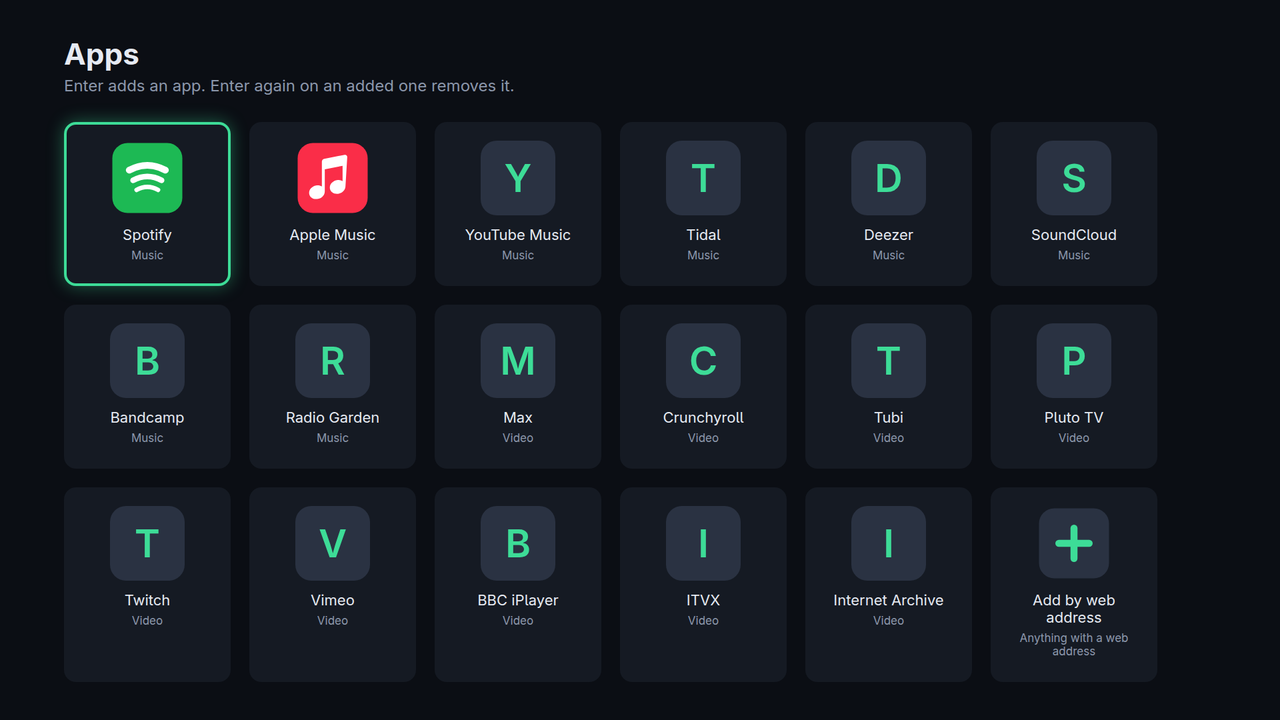
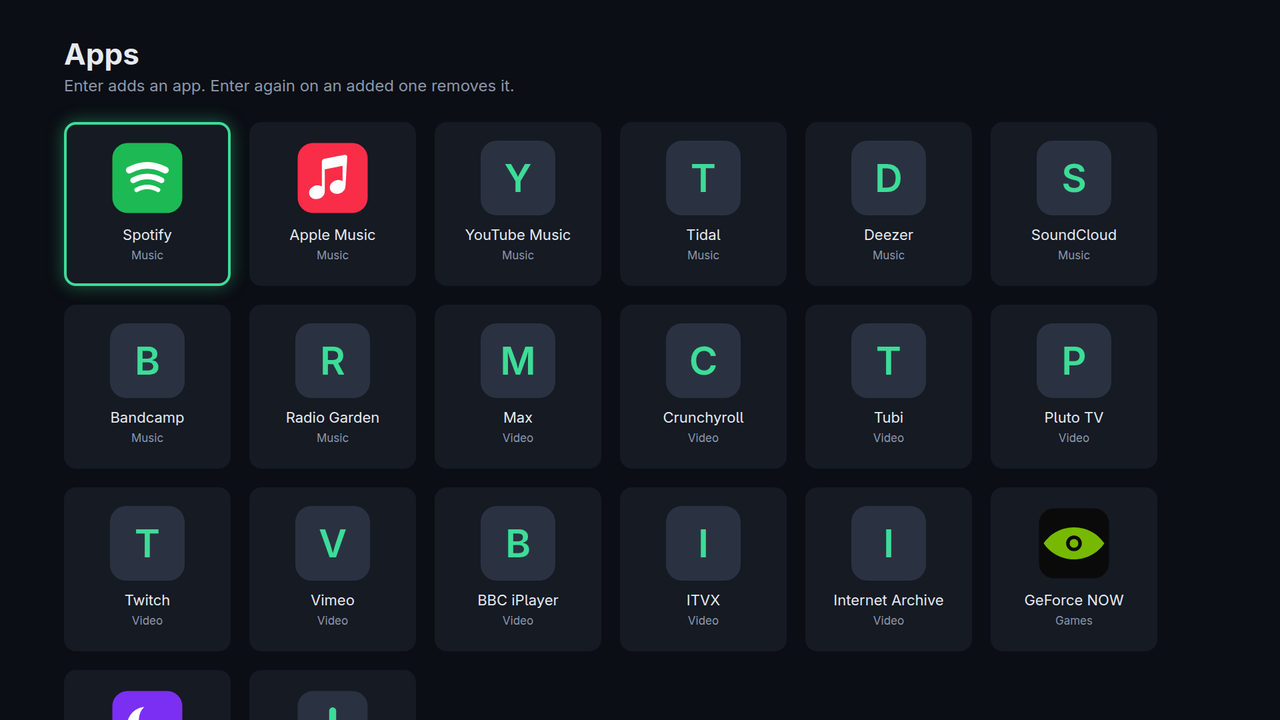
Offer game streaming in the setup wizard
The Apps step now ends with a Games row: GeForce NOW, Amazon Luna and
Moonlight, so somebody setting up a television decides how they play at
the same time as what they watch.

GeForce NOW and Luna are catalogue services, with tiles drawn for them
and the Game category, so they land in the home screen's games row
beside Moonlight rather than among the films. Neither uses Widevine, but
both refuse a browser they do not recognise, so a catalogue entry can
now carry agent "chrome", which claims Chrome on ChromeOS: a browser
both support. Until now the only way to get an agent was to be marked as
needing Widevine, which would have made the launcher refuse to open them
without a CDM they do not use.

Moonlight is not a web app and so not in the catalogue. It gets its own
item, with "about 2 GB" on the tile, and choosing it starts the Flatpak
download in the background and says so: the wizard does not hold itself
open for two gigabytes. Sunshine, the half that runs on the PC, is
explained in the step's hint and in docs/EXTRAS.md; nothing is installed
here for it.

Checked on the television: the three appear in the step, and choosing
Moonlight really did start flatpak fetching it, which was then stopped.
docs/images/apps.png is retaken, and the counts in the README, SETUP and
SERVICES now say nineteen.

Changed region(s): [[0.7812, 0.7028, 0.875, 0.9167], [0.2188, 0.9472, 0.3125, 1.0], [0.0625, 0.9472, 0.1562, 1.0]]

diff --git a/image/overlay/usr/share/freetvos/setupui.py b/image/overlay/usr/share/freetvos/setupui.py
@@ -115,7 +115,9 @@ APPS_BODY = """
 <div class="msg" id="msg"></div>
 <p class="hint">Netflix, Prime Video, Disney+, Hulu, Apple TV+,
 Paramount+, Peacock, ESPN+, YouTube, YouTube TV, Plex and Jellyfin are already
-here. Back goes to the previous step.</p>
+here. GeForce NOW and Luna play games in the browser; Moonlight plays what is
+running on a PC in the house, which needs Sunshine installed on that PC. Back
+goes to the previous step.</p>
 <script>
 __NAV__
 const ITEMS = __ITEMS__;
@@ -186,7 +188,7 @@ function choose(i) {
       busy = false;
       if (r.error) { msg.className = 'msg bad'; msg.textContent = r.error; return; }
       it.on = adding;
-      msg.textContent = it.name + (adding ? ' added' : ' removed');
+      msg.textContent = r.note || (it.name + (adding ? ' added' : ' removed'));
       paint();
     });
 }
@@ -260,6 +262,12 @@ def run(setup) -> int:
         items = [{"id": entry["id"], "name": entry["name"],
                   "group": entry["group"], "on": entry["id"] in have}
                  for entry in service.catalog()]
+        # Moonlight is not a web app, so it is not in the catalogue, but this
+        # is where somebody deciding how they play games is looking. Its size
+        # is on the tile: two gigabytes is not a surprise to spring on someone.
+        items.append({"id": "moonlight", "name": "Moonlight",
+                      "group": "Games \u00b7 about 2 GB",
+                      "on": setup.moonlight_installed()})
         # First, not last. Twenty tiles between here and the end of the step
         # is a long way to travel to say you are finished, and the highlight
         # starts on the first app so the page still opens on something to pick.
@@ -300,6 +308,14 @@ def run(setup) -> int:
         return {"items": network_items()}
 
     def do_app(payload):
+        if payload.get("id") == "moonlight":
+            if payload.get("on"):
+                setup.moonlight_install()
+                return {"ok": True,
+                        "note": "Moonlight is downloading. It will be on the "
+                                "home screen when it finishes."}
+            setup.moonlight_remove()
+            return {"ok": True}
         service = setup.services()
         entry = next((c for c in service.catalog()
                       if c["id"] == payload.get("id")), None)
@@ -307,7 +323,8 @@ def run(setup) -> int:
             return {"error": "That app is no longer in the catalogue."}
         if payload.get("on"):
             service.add(entry["id"], entry["name"], entry["url"],
-                        entry.get("drm", "no"), entry["category"])
+                        entry.get("drm", "no"), entry["category"],
+                        agent=entry.get("agent", ""))
         else:
             service.remove(entry["id"])
         return {"ok": True}

diff --git a/tools/test-setup.py b/tools/test-setup.py
@@ -13,6 +13,7 @@ import importlib.util
 import os
 import sys
 import tempfile
+import time
 import types
 from pathlib import Path
 
@@ -173,6 +174,42 @@ def main() -> int:
         check("and it can be asked to run again", setup.done(), False)
         setup.reset()
         check("resetting twice is fine", setup.done(), False)
+
+        print("game streaming")
+        log = Path(tmp) / "moonlight.log"
+        missing = Path(tmp) / "moonlight-missing"
+        here = Path(tmp) / "moonlight-here"
+        missing.write_text(f'#!/bin/sh\necho "$1" >> {log}\n'
+                           '[ "$1" = status ] && echo "not installed"\nexit 0\n')
+        here.write_text(f'#!/bin/sh\necho "$1" >> {log}\n'
+                        '[ "$1" = status ] && echo "installed, version 6.1.0"\nexit 0\n')
+        for stub in (missing, here):
+            stub.chmod(0o755)
+
+        setup.MOONLIGHT = str(missing)
+        check("not there yet", setup.moonlight_installed(), False)
+        setup.MOONLIGHT = str(here)
+        check("there", setup.moonlight_installed(), True)
+
+        setup.MOONLIGHT = str(missing)
+        setup.moonlight_install()
+        # Two gigabytes: it is started and left running, so the wizard can
+        # carry on. Wait for the child rather than assume it has run yet.
+        for _ in range(40):
+            if log.exists() and "install" in log.read_text():
+                break
+            time.sleep(0.05)
+        check("installing starts it without waiting for it",
+              "install" in log.read_text(), True)
+        setup.moonlight_remove()
+        check("removing asks it to go", "remove" in log.read_text(), True)
+
+        setup.MOONLIGHT = str(Path(tmp) / "not-installed-at-all")
+        check("a command that is not there is not a crash",
+              setup.moonlight_installed(), False)
+        setup.moonlight_install()
+        setup.moonlight_remove()
+        check("and neither is asking it to do things", True, True)
 
     print()
     if failures:

diff --git a/tools/test-services.py b/tools/test-services.py
@@ -73,6 +73,12 @@ def main() -> int:
         check("music is grouped",
               sorted(e["id"] for e in entries if e["group"] == "Music")[:3],
               ["applemusic", "bandcamp", "deezer"])
+        check("games are grouped",
+              sorted(e["id"] for e in entries if e["group"] == "Games"),
+              ["geforcenow", "luna"])
+        check("and are filed where the home screen keeps games",
+              sorted({e["category"] for e in entries if e["group"] == "Games"}),
+              ["Game;"])
 
         print("naming")
         check("slug", svc.slug("Apple Music"), "applemusic")
@@ -117,6 +123,15 @@ def main() -> int:
         check("no browser agent when it needs no Widevine",
               "USER_AGENT" in (conf / "freetvos/webapps/myjellyfin.app").read_text(),
               False)
+
+        print("a service that is fussy about browsers")
+        gaming = next(e for e in entries if e["id"] == "geforcenow")
+        svc.add(gaming["id"], gaming["name"], gaming["url"], gaming["drm"],
+                gaming["category"], offline=True, agent=gaming.get("agent", ""))
+        gaming_body = (conf / "freetvos/webapps/geforcenow.app").read_text()
+        check("claims a browser it is served on", "CrOS" in gaming_body, True)
+        check("without being taken for a Widevine service",
+              'DRM="no"' in gaming_body, True)
 
         print("removing")
         check("removed", svc.remove("spotify"), True)

diff --git a/image/overlay/usr/share/freetvos/servicesui.py b/image/overlay/usr/share/freetvos/servicesui.py
@@ -252,7 +252,8 @@ def run(svc) -> int:
         if entry is None:
             return {"error": "That app is no longer in the catalogue."}
         svc.add(entry["id"], entry["name"], entry["url"],
-                entry.get("drm", "no"), entry["category"])
+                entry.get("drm", "no"), entry["category"],
+                agent=entry.get("agent", ""))
         return {"ok": True}
 
     def do_remove(payload):

diff --git a/README.md b/README.md
@@ -29,7 +29,7 @@ and `python3 tools/showcase.py demo` take them again.
 | ![The home screen](docs/images/home.png) | ![The first-run wizard](docs/images/setup.png) |
 | **Home.** Twelve streaming services and every feature, on Plasma Bigscreen. | **Setup Wizard.** Opens by itself the first time the television is turned on. |
 | ![Typing a wifi password on screen](docs/images/setup-keyboard.png) | ![The app catalogue](docs/images/apps.png) |
-| **Typing with a remote.** The page draws its own keyboard. The network names are stand-ins, as the VM has no radio. | **Customizable Apps/Services.** Seventeen more services a press away, or any site by its address. |
+| **Typing with a remote.** The page draws its own keyboard. The network names are stand-ins, as the VM has no radio. | **Customizable Apps/Services.** Nineteen more services a press away, including cloud gaming, or any site by its address. |
 | ![Live scores](docs/images/scores.png) | ![One game](docs/images/scores-game.png) |
 | **Sports App.** Live games first, refreshing on their own, with the teams you follow above everything. | **Sports Game Details.** The clock, the down and distance, the last play, and a button to follow either side. |
 | ![Your own media](docs/images/library.png) | ![External inputs](docs/images/inputs.png) |
@@ -109,7 +109,7 @@ See `docs/SETUP.md`.
 
 ## Adding an app
 
-**Apps** on the home screen opens a catalogue of twenty services; Enter adds one
+**Apps** on the home screen opens a catalogue of nineteen services; Enter adds one
 and Enter again removes it. Anything else goes in by name and web address. A
 service added this way lives entirely in the user's own directories, so it needs
 no rebuild and survives updates. See `docs/SERVICES.md`.

diff --git a/docs/EXTRAS.md b/docs/EXTRAS.md
@@ -37,6 +37,19 @@ going to different places, which was already reported once as confusing.
 
 ## Game streaming
 
+Three ways to play, and the setup wizard offers all three in its Apps step.
+
+**GeForce NOW** and **Amazon Luna** play in the browser, so there is nothing to
+install: add them and sign in. Neither uses Widevine, but both check which
+browser they are in and refuse one they do not know, so their catalogue entries
+claim Chrome on ChromeOS, which both support. They are in the catalogue's Games
+group and land in the Games row on the home screen.
+
+**Moonlight** plays a game running on a PC in the house. The other half of it,
+**Sunshine**, runs on that PC and is what Moonlight connects to; it is not
+installed here and there is nothing to configure on the television for it.
+Pair the two the first time Moonlight opens.
+
 **Game Streaming** runs Moonlight, which plays a game running on a PC elsewhere
 in the house. It is not packaged for Fedora, so it arrives as a Flatpak,
 installed into the viewer's own directory: that needs no root, and under bootc it

diff --git a/docs/SETUP.md b/docs/SETUP.md
@@ -8,7 +8,8 @@ Two steps and a way out of each:
 
 1. **Network.** A cable is detected and says so. Otherwise the networks in range
    are listed strongest first, with the password typed on screen.
-2. **Apps.** The catalogue of seventeen more services, ticked on and off.
+2. **Apps.** The catalogue of nineteen more services, ticked on and off, and
+   Moonlight, which is a download rather than a tile.
    Netflix, Prime Video, Disney+, Hulu, Apple TV+, Paramount+, Peacock, ESPN+,
    YouTube, YouTube TV, Plex and Jellyfin are already there.
 

diff --git a/docs/SERVICES.md b/docs/SERVICES.md
@@ -5,7 +5,7 @@ build time. That is right for what the product ships with and wrong for
 everything else: wanting Spotify on your own television should not mean building
 an operating system.
 
-**Apps** on the home screen opens a catalogue of seventeen more services. Enter adds one,
+**Apps** on the home screen opens a catalogue of nineteen more services. Enter adds one,
 Enter again removes it. There is nothing to type, because typing with a d-pad is
 miserable and most people want one of the same few.
 
